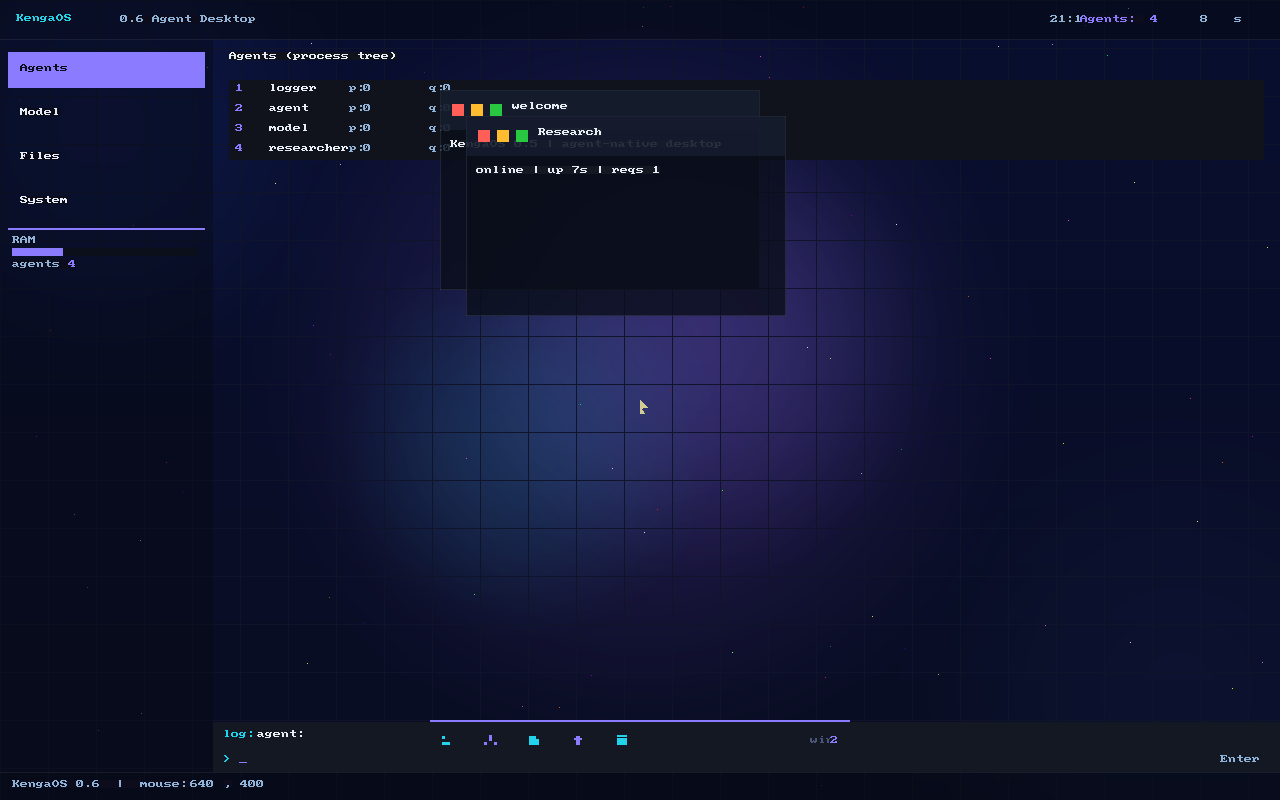
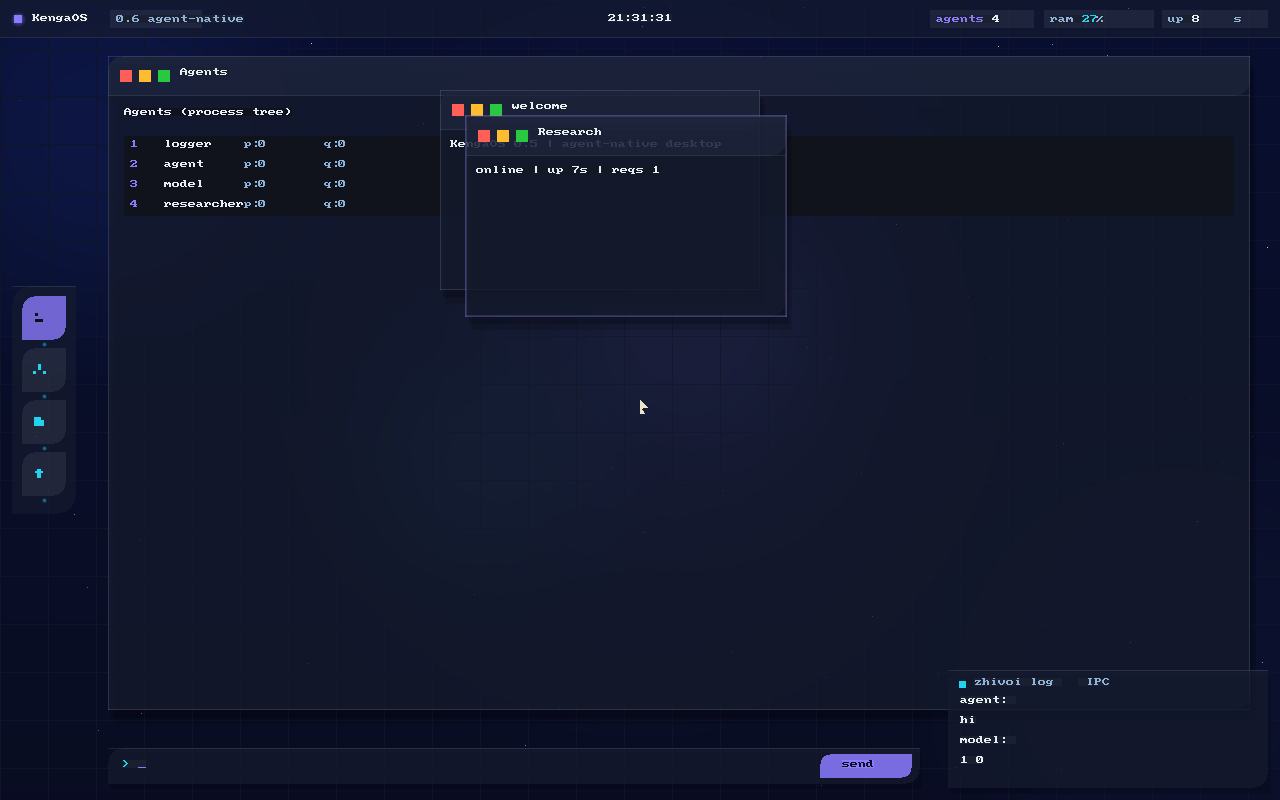
ui: reference composition — floating left dock, glass panels (blend_rrect), view window, log bottom-right, topbar chips

diff --git a/kernel/kf_fb.c b/kernel/kf_fb.c
@@ -292,11 +292,51 @@ int64_t k_fb_rrect(int64_t x0, int64_t y0, int64_t w, int64_t h,
         volatile uint32_t* row = (volatile uint32_t*)(base + (uintptr_t)(y0 + yy) * fb_pitch + (uintptr_t)x0 * 4);
         int64_t cy = yy;
         int64_t xskip = 0, xend = w;
-        if (cy < rr) { int64_t d = rr - cy; xskip = rr - (int64_t)(dsqrti((int64_t)rr * rr - d * d)); }
-        if (cy >= h - rr) { int64_t d = rr - (h - 1 - cy); xend = w - rr + (int64_t)(dsqrti((int64_t)rr * rr - d * d)); }
+        if (cy < rr) { int64_t d = rr - cy; xskip = rr - dsqrti(rr * rr - d * d); }
+        if (cy >= h - rr) { int64_t d = rr - (h - 1 - cy); xend = w - rr + dsqrti(rr * rr - d * d); }
         if (xskip < 0) xskip = 0;
         if (xend > w) xend = w;
         for (int64_t xx = xskip; xx < xend; xx++) row[xx] = c;
+    }
+    return 1;
+}
+
+/* Rounded glass panel: alpha-blend a rounded rect over the current content.
+   This is THE glassmorphism primitive (reference: rgba(22,28,48,.78), r=14). */
+int64_t k_fb_blend_rrect(int64_t x0, int64_t y0, int64_t w, int64_t h,
+                         int64_t r, int64_t color, int64_t alpha) {
+    if (!fb_ok || w < 1 || h < 1 || r < 0 || alpha <= 0) return 0;
+    if (alpha > 255) alpha = 255;
+    if (x0 < 0) { w += x0; x0 = 0; }
+    if (y0 < 0) { h += y0; y0 = 0; }
+    if (x0 + w > (int64_t)fb_w) w = fb_w - x0;
+    if (y0 + h > (int64_t)fb_h) h = fb_h - y0;
+    if (w <= 0 || h <= 0) return 0;
+    uint32_t a = (uint32_t)alpha;
+    uint32_t ia = 255 - a;
+    uint32_t fg = (uint32_t)color;
+    uint32_t fr = (fg >> 16) & 0xff, fgc = (fg >> 8) & 0xff, fbc = fg & 0xff;
+    int64_t rr = r;
+    if (rr > w / 2) rr = w / 2;
+    if (rr > h / 2) rr = h / 2;
+    uintptr_t base = fb_cur();
+    for (int64_t yy = 0; yy < h; yy++) {
+        volatile uint32_t* row = (volatile uint32_t*)(base + (uintptr_t)(y0 + yy) * fb_pitch + (uintptr_t)x0 * 4);
+        int64_t cy = yy;
+        int64_t xskip = 0, xend = w;
+        if (rr > 0) {
+            if (cy < rr) { int64_t d = rr - cy; xskip = rr - dsqrti(rr * rr - d * d); }
+            if (cy >= h - rr) { int64_t d = rr - (h - 1 - cy); xend = w - rr + dsqrti(rr * rr - d * d); }
+        }
+        if (xskip < 0) xskip = 0;
+        if (xend > w) xend = w;
+        for (int64_t xx = xskip; xx < xend; xx++) {
+            uint32_t bg = row[xx];
+            uint32_t r2 = (fr * a + ((bg >> 16) & 0xff) * ia) >> 8;
+            uint32_t g2 = (fgc * a + ((bg >> 8) & 0xff) * ia) >> 8;
+            uint32_t b2 = (fbc * a + (bg & 0xff) * ia) >> 8;
+            row[xx] = (r2 << 16) | (g2 << 8) | b2;
+        }
     }
     return 1;
 }

diff --git a/kernel/kf_rt.h b/kernel/kf_rt.h
@@ -226,6 +226,7 @@ int64_t k_fb_begin_frame(void);
 int64_t k_fb_end_frame(void);
 int64_t k_fb_blend_rect(int64_t x, int64_t y, int64_t w, int64_t h, int64_t color, int64_t alpha);
 int64_t k_fb_rrect(int64_t x, int64_t y, int64_t w, int64_t h, int64_t r, int64_t color);
+int64_t k_fb_blend_rrect(int64_t x, int64_t y, int64_t w, int64_t h, int64_t r, int64_t color, int64_t alpha);
 int64_t k_fb_grad_rect(int64_t x, int64_t y, int64_t w, int64_t h, int64_t c0, int64_t c1);
 int64_t k_fb_glow(int64_t cx, int64_t cy, int64_t rad, int64_t color, int64_t amax);
 
